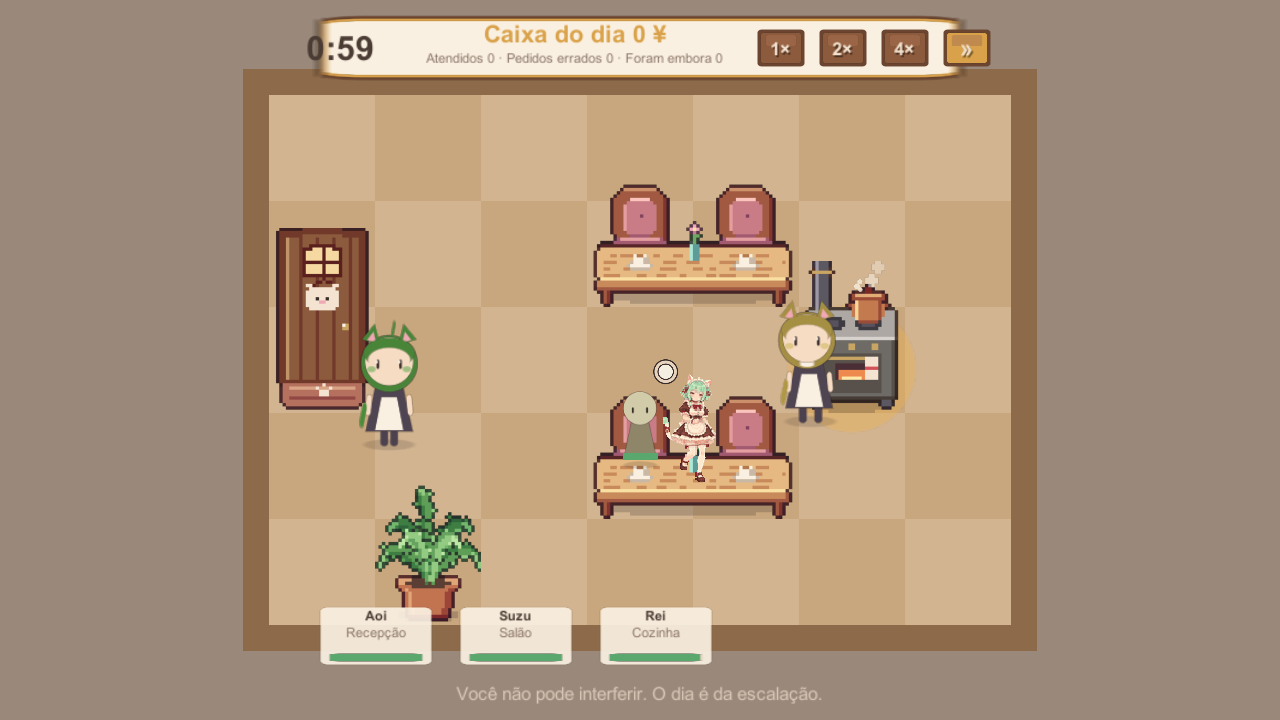
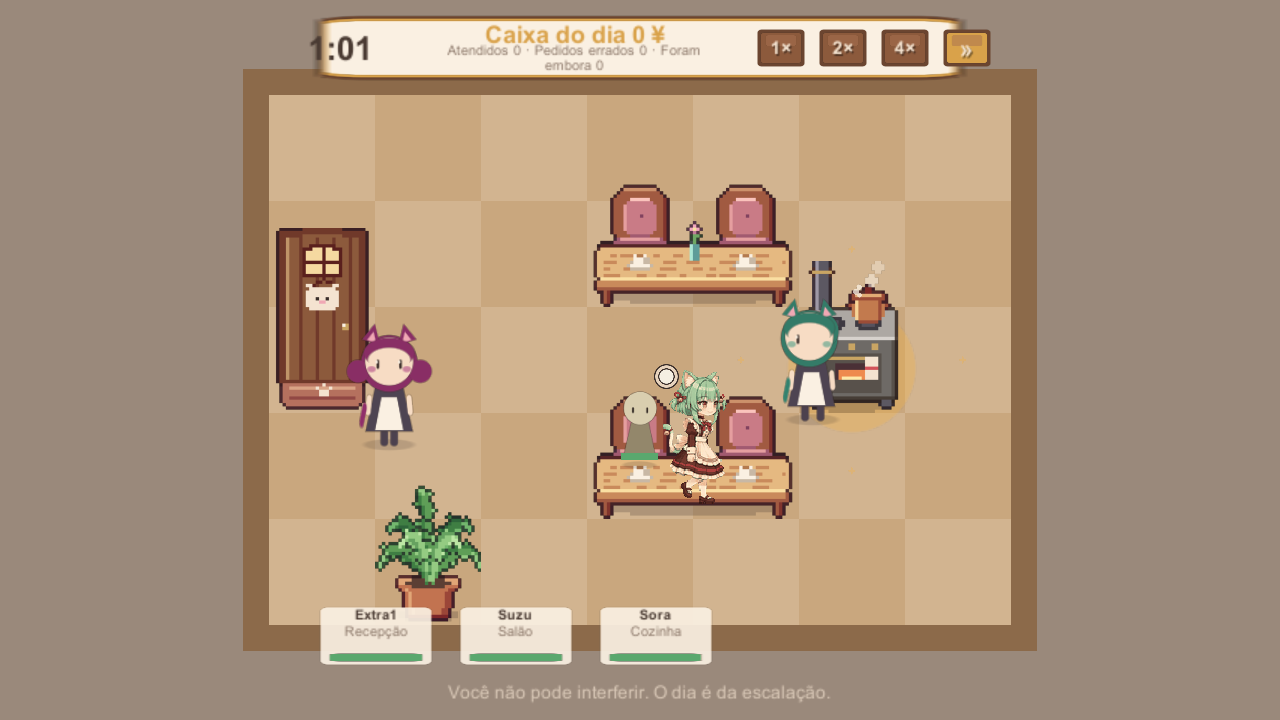
feat(art): integrate the corrected Suzu walk; keep the old sheet as backup
Frames are now in walk_x/frames (mint bob, amber eyes, bells verified). Loop trimmed to 15
frames; catalog merged without touching other maids. Allowlist gains suzu_walk.png only.

diff --git a/Assets/_Game/Tests/EditMode/Game/MaidAnimCatalogTests.cs b/Assets/_Game/Tests/EditMode/Game/MaidAnimCatalogTests.cs
@@ -99,7 +99,7 @@ namespace Neko.Tests.EditMode.Game
         [Test]
         public void TheCatalogMatchesWhatTheProcessingToolWroteForEachMaid()
         {
-            foreach (var entry in MaidAnimCatalog.All.Where(e => e.id != "suzu"))
+            foreach (var entry in MaidAnimCatalog.All)
             {
                 var path = Path.GetFullPath(Path.Combine(Application.dataPath, "..", "docs", "art", "maid-walk", entry.id,
                     "manifest.json"));
@@ -116,16 +116,11 @@ namespace Neko.Tests.EditMode.Game
         }
 
         [Test]
-        public void TheLegacySuzuEntryStillMatchesHerOwnManifest()
+        public void TheBackupSuzuSheetStillLoadsForRollback()
         {
-            var entry = MaidAnimCatalog.ById("suzu");
-            var path = Path.GetFullPath(Path.Combine(Application.dataPath, "..", "docs", "art", "suzu-walk", "manifest.json"));
-            var manifest = JsonUtility.FromJson<SuzuManifest>(File.ReadAllText(path));
-            Assert.AreEqual(entry.frames, manifest.frames);
-            Assert.AreEqual(entry.columns, manifest.cols);
-            Assert.AreEqual(entry.rows, manifest.rows);
-            Assert.AreEqual(entry.idle_frame, manifest.idle_frame);
-            CollectionAssert.AreEquivalent(entry.rest_frames, manifest.settle_frames);
+            var frames = _factory.Sheet("Suzu/suzu_walk_sheet", 6, 5, 92, 126, 30, 96f);
+            Assert.IsNotNull(frames, "the PR #27 sheet is kept as a backup");
+            Assert.AreNotEqual("Suzu/suzu_walk_sheet", MaidAnimCatalog.ById("suzu").resource, "the catalog uses the new sheet");
         }
 
         [System.Serializable]
@@ -134,13 +129,6 @@ namespace Neko.Tests.EditMode.Game
             public int frames, columns, rows, idle_frame;
             public int[] cell, rest_frames;
             public float units_per_cycle;
-        }
-
-        [System.Serializable]
-        private sealed class SuzuManifest
-        {
-            public int frames, cols, rows, idle_frame;
-            public int[] settle_frames;
         }
 
         [Test]

diff --git a/Assets/_Game/Tests/EditMode/Game/DocsTests.cs b/Assets/_Game/Tests/EditMode/Game/DocsTests.cs
@@ -137,6 +137,7 @@ namespace Neko.Tests.Game
                 "Assets/_Game/Resources/Maids/nene_walk.png",
                 "Assets/_Game/Resources/Maids/reina_walk.png",
                 "Assets/_Game/Resources/Maids/yoru_walk.png",
+                "Assets/_Game/Resources/Maids/suzu_walk.png",
             },
                 expected.Keys);
 

diff --git a/docs/art/maid-walk/INVENTORY.md b/docs/art/maid-walk/INVENTORY.md
@@ -1,10 +1,10 @@
-# ART-03 — Inventory of the nine walk sequences (eight integrated)
+# ART-03 — Inventory of the nine walk sequences (all nine integrated)
 
 Generated by `python tools/art/maid_walk/maid_walk.py audit|process`; raw frames are git-ignored and untouched. Statuses: READY / NEEDS_PROCESSING (fixed offline) / LIMITED (usable, known limits) / REJECTED (not integrated).
 
 | Maid | Archetype | Raw frames (numbering) | Size | Status | Frames used | Cell | Idle / rest | Units per cycle | Slide factor |
 |---|---|---|---|---|---|---|---|---|---|
-| Suzu | Genki | 34 (15-48) | 1920x1080 | REJECTED | - | - | - / - | - | - |
+| Suzu | Genki | 24 (33-56) | 1920x1080 | LIMITED | 15 | 76x124 | 6 / 3 | 1.1 | 2.8x |
 | Hina | Kuudere | 35 (15-49) | 1920x1080 | NEEDS_PROCESSING | 35 | 74x124 | 30 / 8 | 2.57 | 5.2x |
 | Akari | Tsundere | 24 (33-56) | 1920x1080 | READY | 24 | 84x124 | 18 / 5 | 1.76 | 2.4x |
 | Momo | Dojikko | 27 (36-62) | 1920x1080 | NEEDS_PROCESSING | 20 | 70x124 | 9 / 3 | 1.47 | 4.1x |
@@ -16,10 +16,11 @@ Generated by `python tools/art/maid_walk/maid_walk.py audit|process`; raw frames
 
 ## Per maid
 
-### Suzu — REJECTED (new frames); legacy mint sheet stays
-- `walk_x/new_frames/`: 34 PNG (15-48), 1920x1080. Visual check: they draw **Hina's design** (navy bob, triangular silver clip, ice-blue eyes, no bells, no mint, no amber). Not packed.
-- `walk_x/frames/` holds the 30 mint frames behind the sheet already integrated (legacy entry, 4b7b6174...). Suzu keeps that sheet; nothing was removed.
-- To integrate a real new Suzu: export mint/amber frames, point `maids.json` at them, drop `pack: false`, run `process --only suzu` (the catalog is merged, other entries are untouched) and add the sheet hash to the allowlist.
+### Suzu — LIMITED
+- 24 PNG, 1920x1080 RGBA, numbers 33-56 (files named `.gitignore00NN.png`, read by the tolerant name matcher), gaps: none. Verified visually: mint bob, amber eyes, bells on hair and tail, burgundy ribbon.
+- Body height 832.5 px; matte 997 px; 73 specks removed; loop 2.32x a normal step as exported, so trimmed to source frames 34-48 (15 frames, 1.1x).
+- Limit: the export is a short start-up (stand, one step, stand), so the loop is a **single step with the same foot leading each repeat**, shorter than the other maids' cycles. Usable; a longer two-step walk would look better.
+- The PR #27 mint sheet (`Resources/Suzu/suzu_walk_sheet.png`) is no longer used by the catalog and stays as a rollback backup.
 
 ### Hina — NEEDS_PROCESSING
 - 35 PNG, 1920x1080 RGBA, numbers 15-49, gaps: none. Alpha levels in frame 1: 256.
@@ -81,7 +82,7 @@ Every sequence is a slow walk in place: the planted foot travels 1-2.4 px per fr
 
 ## Identity decisions
 
-- `01_suzu/.../new_frames` also draws Hina's design: REJECTED, see the Suzu section. The mint sheet stays as the legacy catalog entry.
+- An earlier `01_suzu/.../new_frames` export drew Hina's design and was rejected; the owner replaced the folder with the correct mint Suzu, now integrated.
 - Hina's local frames are the Hina design: used for Hina.
 - Runtime resolution is unchanged in spirit: **name and archetype must both match** (`MaidAnimCatalog.Resolve`). A drawn "Hina" of another archetype stays procedural. Nothing is persisted and no save migration exists; a persistent `visual_id` (or one design per archetype) is a product decision left to the owner.
 - Any equipped gear returns the procedural layered figure, because gear is drawn as layers a flat sheet cannot show.

diff --git a/docs/art/maid-walk/README.md b/docs/art/maid-walk/README.md
@@ -1,11 +1,11 @@
 # Maid walk cycles in the game (ART-03)
 
-Nine maids walk with authored sheets in the real shift: Suzu (legacy mint sheet), Hina, Akari, Momo, Reina, Kaede, Nene, Ichika and Yoru. The `01_suzu/.../new_frames` PNGs draw Hina, so they are not integrated. Details, per-maid QA and limits: [INVENTORY.md](INVENTORY.md).
+Nine maids walk with authored sheets in the real shift: Suzu (new frames), Hina, Akari, Momo, Reina, Kaede, Nene, Ichika and Yoru. Details, per-maid QA and limits: [INVENTORY.md](INVENTORY.md).
 
 ## Architecture
 - `tools/art/maid_walk/maids.json` — roster and per-maid parameters; `maid_walk.py audit|process` — reproducible pipeline (clean, chroma key, loop trim, foot/axis anchor, one resample, palette, pack, rest-frame and idle detection, manifest with source SHA-256).
 - Output: `Assets/_Game/Resources/Maids/<id>_walk.png` (+ `maid_walk_catalog.json`, the single source of the numbers). Raw frames never enter `Assets/`.
-- Runtime: `MaidAnimCatalog` (data + resolution), `MaidView` (generic), `WalkCycle` (distance-driven, per-maid `units_per_cycle`). `SuzuSprites` is gone; Suzu is a `legacy` catalog entry pointing at the old sheet (rollback intact).
+- Runtime: `MaidAnimCatalog` (data + resolution), `MaidView` (generic), `WalkCycle` (distance-driven, per-maid `units_per_cycle`). `SuzuSprites` is gone; the PR #27 sheet stays in `Resources/Suzu/` only as a rollback backup (`legacy` in `maids.json`).
 - Identity: name **and** archetype must match a catalog entry; any gear falls back to the procedural figure. Nothing persisted, no save change. A persistent `visual_id` or one design per archetype is an owner decision, not made here.
 
 ## See each maid in a real automatic shift
@@ -17,7 +17,7 @@ Window > General > Test Runner > PlayMode, run `MaidGameplayTests`:
 ## Trade-offs
 - **Sliding feet**: sources are slow walks in place; cadence is ~30 drawings/s at 1x, capped at 60/s. Feet slide 2.4-5.2x (see inventory). Needs faster-stride footage to fix.
 - **Style**: one Lanczos downsample to 120 px height + 48-colour palette + hard alpha; faces lose some detail.
-- **Loops**: Momo (27→20 frames), Reina (36→33) and Kaede (28→17) were trimmed to the stretch that loops; Kaede still jumps slightly at the wrap (LIMITED).
+- **Loops**: Suzu (24→15, a single-step loop), Momo (27→20 frames), Reina (36→33) and Kaede (28→17) were trimmed to the stretch that loops; Kaede still jumps slightly at the wrap (LIMITED).
 - **Equipment**: gear removes the authored look (layers cannot be drawn over a flat sheet).
 - **Only walk exists**: Idle/Carry/Cook/Tired reuse walk frames, plate and dimming.
 - **Memory**: nine sheets, ~10.2 MB uncompressed in total, shared per sheet through `SpriteFactory`; WebGL build not measured.

diff --git a/docs/art/SUZU_ASSET_PROVENANCE.md b/docs/art/SUZU_ASSET_PROVENANCE.md
@@ -1,6 +1,6 @@
 # Suzu — imported runtime asset
 
-The textures imported into the player are the Suzu walk sheet and the eight maid walk sheets of ART-03 (below).
+The textures imported into the player are the Suzu walk sheet the old Suzu sheet kept as a backup, and the nine maid walk sheets of ART-03 (below).
 
 **Origin.** Suzu was designed in this project (ChatGPT image, D-pixel-cafe direction), animated
 from a still with Tencent AI Studio, exported to 30 PNG frames with Blender
@@ -27,15 +27,16 @@ fa83f45386f2fe18a3d21706e4dbf516faa80f415a86dd5df01c3136ee510398  Assets/_Game/R
 9f8ab9019ec6d2fd9cd439dd7ef4a96335da21f966facc7c598d0267c005c9e8  Assets/_Game/Resources/Maids/nene_walk.png
 ea474732cd88803e75b065226ddcb020bd56e1267f65a6f3265633cc3eb80400  Assets/_Game/Resources/Maids/reina_walk.png
 d41e914497c053ee213555e89b73c91dcfe86a09ad7c0b6ea5f4b2ecca3c8cad  Assets/_Game/Resources/Maids/yoru_walk.png
+46b4b6f9667c04e31fbc1b13624b3c8324ebd56882785349ad512029214b4a5b  Assets/_Game/Resources/Maids/suzu_walk.png
 ```
 
 ## Maid walk sheets (ART-03)
 
-Hina, Akari, Momo, Reina, Kaede, Nene, Ichika and Yoru were designed in this project (same chain as Suzu:
+Suzu (new frames), Hina, Akari, Momo, Reina, Kaede, Nene, Ichika and Yoru were designed in this project (same chain as Suzu:
 ChatGPT image, Tencent AI Studio animation, Blender frame export to the git-ignored
 `art_working/<NN_maid>/step4_blender/walk_x/frames/`, never modified). Each sheet is produced by
 `tools/art/maid_walk/maid_walk.py process` (parameters, per-frame source SHA-256 and the sheet hash are in
 `docs/art/maid-walk/<id>/manifest.json`). Import settings are those of the Suzu sheet (Point, no mipmaps,
 uncompressed, non-readable). The hashes are in the allowlist block above, which `DocsTests` checks.
 
-Suzu's `new_frames` sequence (which draws Hina) is **not** imported; her mint sheet above stays. See `docs/art/maid-walk/INVENTORY.md`.
+`Resources/Suzu/suzu_walk_sheet.png` (PR #27) is no longer used by the catalog; it stays only as a rollback backup until the owner approves deleting it. See `docs/art/maid-walk/INVENTORY.md`.
